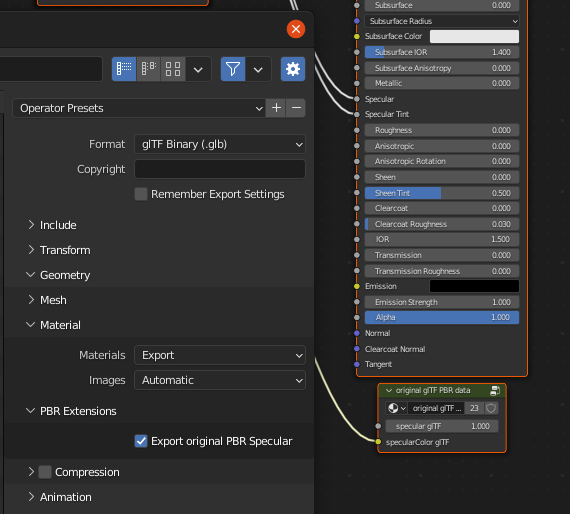
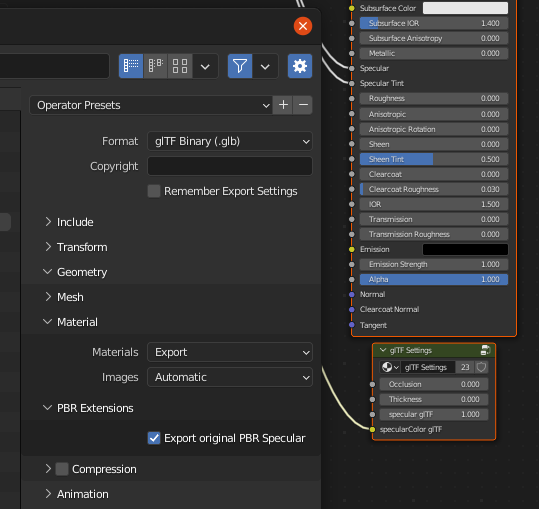
Merge branch 'blender-3.3-release'
git-svn-id: https://svn.blender.org/svnroot/bf-manual/trunk/blender_docs@9458 c4de1f47-6596-e411-a384-0024e86c2797

diff --git a/manual/addons/import_export/scene_gltf2.rst b/manual/addons/import_export/scene_gltf2.rst
@@ -144,7 +144,7 @@ Baked Ambient Occlusion
 glTF is capable of storing a baked ambient occlusion map.
 Currently there is no arrangement of nodes that causes Blender
 to use such a map in exactly the same way as intended in glTF.
-However, if the exporter finds a custom node group by the name of ``glTF Settings``, and
+However, if the exporter finds a custom node group by the name of ``glTF Material Output``, and
 finds an input named ``Occlusion`` on that node group,
 it will look for an Image Texture attached there to use as the occlusion map in glTF.
 The effect need not be shown in Blender, as Blender has other ways of showing ambient occlusion,
@@ -175,7 +175,7 @@ the same image with the roughness and metallic channels.
 
    The Cycles render engine has a Bake panel that can be used to bake
    ambient occlusion maps. The resulting image can be saved and connected
-   directly to the ``glTF Settings`` node.
+   directly to the ``glTF Material Output`` node.
 
 
 Normal Map
@@ -305,7 +305,7 @@ only data from custom node are used.
 
 .. tip::
    If you enable Shader Editor Add-ons in preferences, you will be able to add this custom node group from Menu: 
-   Add > Output > glTF PBR Original data
+   Add > Output > glTF Material Output
 
 Transmission
 ^^^^^^^^^^^^
@@ -365,7 +365,7 @@ Data will be exported using the ``KHR_materials_volume`` extension.
 - For volume to be exported, some *transmission* must be set on Principled BSDF node.
 - Color of Volume Absorption node is used as glTF attenuation color. No texture is allowed for this property.
 - Density of Volume Absorption node is used as inverse of glTF attenuation distance.
-- Thickess can be plugged into the Thickess socket of custom group node ``glTF Settings``.
+- Thickess can be plugged into the Thickess socket of custom group node ``glTF Material Output``.
 - If a texture is used for thickness, it must be plugged on (``G``) Green channel of the image.
 
 .. figure:: /images/addons_import-export_scene-gltf2_material-volume.png
@@ -400,7 +400,7 @@ glTF Variants creation
 
 You can add a new Variant by clicking the ``+`` at right of the Variant list. Then you can change the name by double-clicking.
 
-After changing Materials in Material Slots, you can assign current materials to the active Variant using *Assign to Variant*
+After changing Materials in Material Slots, you can assign current materials to the active Variant using *Assign to Variant*.
 
 You can also set default materials using *Assign as Original*. These materials will be exported as default material in glTF. 
 This are materials that will be displayed by any viewer that don't manage ``KHR_materials_variants`` extension.
@@ -539,6 +539,7 @@ are supported directly by this add-on:
 - ``KHR_materials_sheen``
 - ``KHR_materials_specular``
 - ``KHR_materials_ior``
+- ``KHR_materials_variants``
 - ``KHR_lights_punctual``
 - ``KHR_texture_transform``
 - ``KHR_mesh_quantization``
@@ -557,6 +558,7 @@ are supported directly by this add-on:
 - ``KHR_materials_sheen``
 - ``KHR_materials_specular``
 - ``KHR_materials_ior``
+- ``KHR_materials_variants``
 - ``KHR_texture_transform``
 
 
